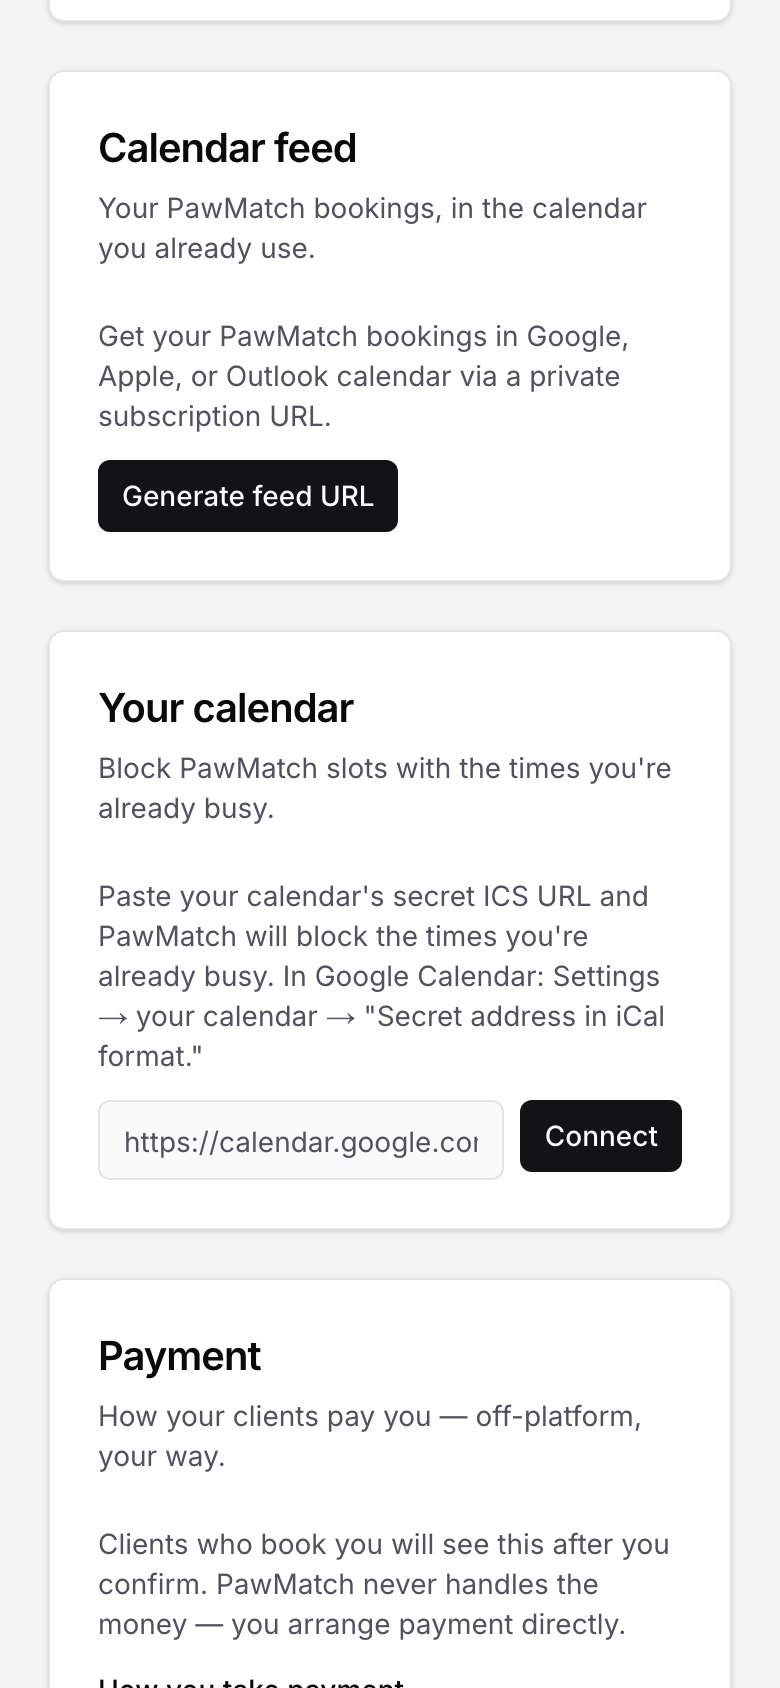
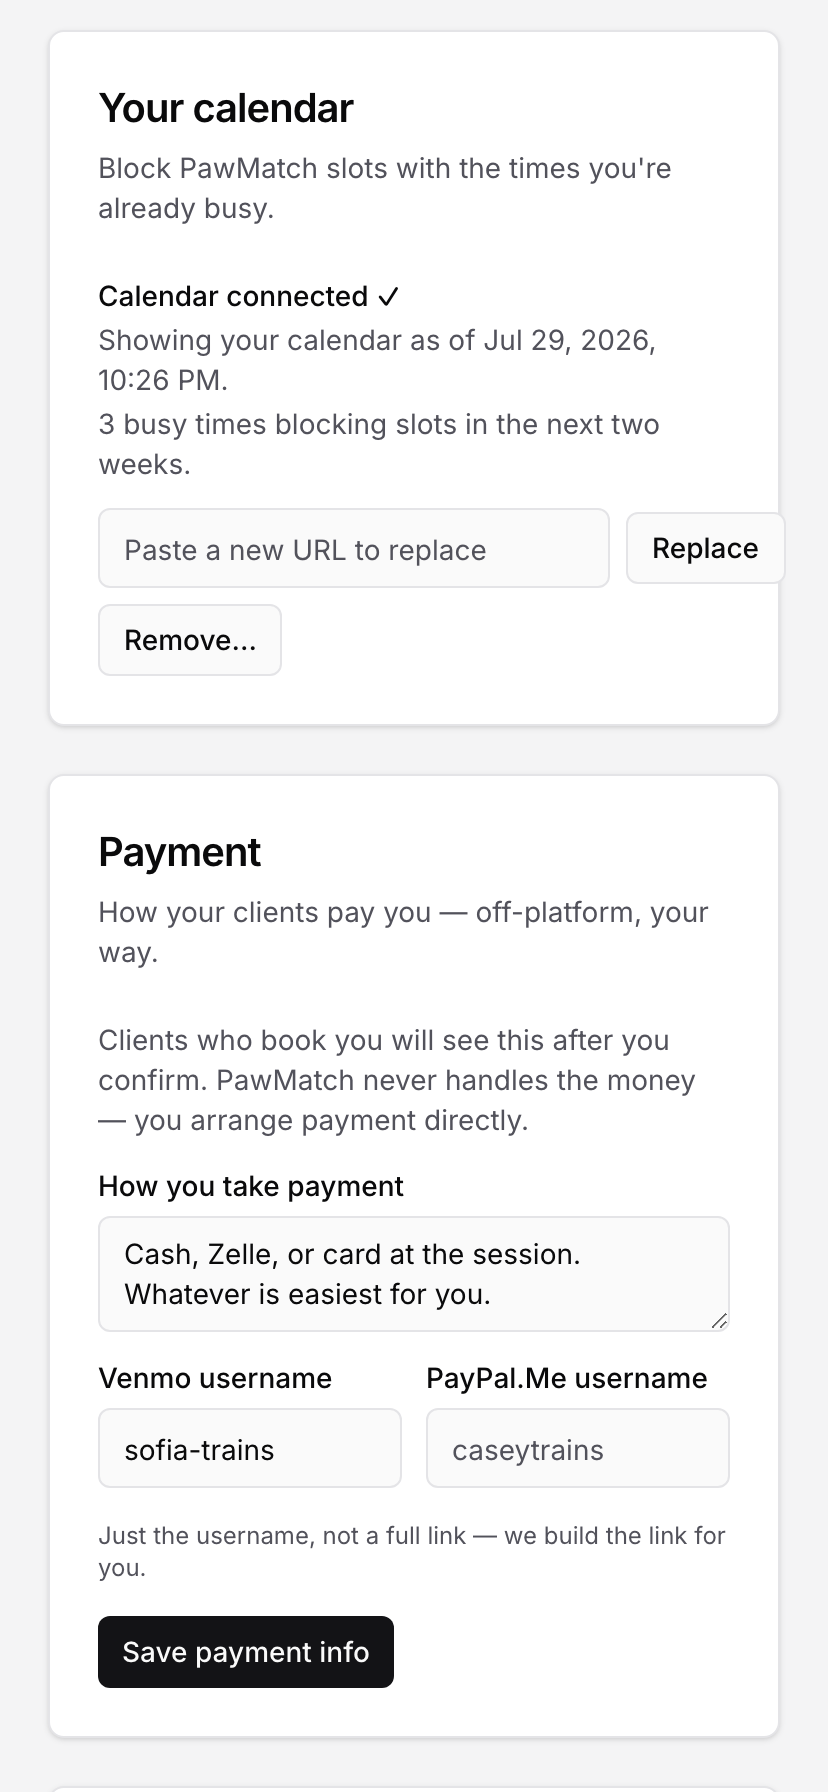
fix(design): phase-2 walkthrough items — hero re-cast + calendar outcome shot
Why: walkthrough verdict A- with three folds. (1) The hero manifest
entry (Beth Macdonald) rendered a walking-away frame with the dog
invisible under the headline; the phase-2 report described a different
energy than what was built (preview-thumbnail read, not full-frame;
reconciled in arc-notes with the lesson). Re-cast to Richard Brutyo's
golden-retriever paw-target moment, mirrored so the dog sits clear of
the text block: dog unmistakably co-subject, warmth + attention at hero
scale, matching the shoot spec as written. (2) The calendar-bridge
device slide showed settings plumbing (ICS paste how-to). Re-shot as
the real connected OUTCOME state: 'Calendar connected, 3 busy times
blocking slots' plus payment set, captured from the live app (state
seeded to the same tables the sync writes; payment set via the real
form). Caption rewritten to Shane's locked framing: no new accounts, no
new logins, clients pay you the way they already do. (3) Sections 1-2
approved as built, untouched.

Standing rule recorded: product imagery at promise level, never
instruction level.

diff --git a/lib/marketing/image-manifest.ts b/lib/marketing/image-manifest.ts
@@ -42,15 +42,15 @@ const UNSPLASH_LICENSE =
 export const MARKETING_IMAGES = {
   heroField: {
     image: heroField,
-    alt: "A dog sitting attentively at its owner's side in an open field, looking up at them",
+    alt: "A golden retriever giving its paw to its owner's raised hand at golden hour",
     section: "Hero (full-viewport opening scene)",
     orientation: "landscape",
     subject:
-      "Owner and pet dog, focused attention, open field. Re-cast 2026-07-29: pet-owner-first (warm competence), sport imagery moved to the community strip.",
+      "Owner and golden retriever, paw-target moment, golden hour. Dog is unmistakably co-subject (re-cast at the phase-2 walkthrough: the prior frame hid the dog under the headline). Mirrored horizontally so the pair sits right of the lower-left text block; Unsplash license permits modification.",
     status: "interim-stock",
     source: {
-      photographer: "Beth Macdonald",
-      url: "https://unsplash.com/photos/RW68ZD7nQyg",
+      photographer: "Richard Brutyo",
+      url: "https://unsplash.com/photos/xvYxGcwFvuE",
       license: UNSPLASH_LICENSE,
     },
   },

diff --git a/lib/marketing/ui-shots.ts b/lib/marketing/ui-shots.ts
@@ -53,10 +53,10 @@ export const UI_SHOTS = {
   },
   calendar: {
     image: uiCalendar,
-    alt: "PawMatch calendar connection card where a trainer links their own calendar",
-    title: "The calendar bridge",
+    alt: "A trainer's PawMatch account showing calendar connected with busy times syncing, and payment set up their own way",
+    title: "Already yours",
     caption:
-      "Trainers connect the calendar they already use. Booked sessions sync out; busy times block new requests.",
+      "No new accounts, no new logins. Clients pay you the way they already do, and PawMatch syncs with the calendar you already run.",
     route: "/account",
   },
 } as const satisfies Record<string, UiShot>;

diff --git a/docs/design/arc-notes.md b/docs/design/arc-notes.md
@@ -60,6 +60,30 @@ standing directive for all copy and image casting:
   its tweens on first scroll intent (see comment there). Animating the
   LCP element at load costs ~2s of mobile LCP.
 
+## Phase-2 walkthrough corrections (2026-07-29)
+
+- REPORT-VS-BUILT RECONCILIATION: the phase-2 report described the hero
+  interim as "lab in a focused sit, eyes up at owner". What actually
+  rendered (manifest entry heroField, Beth Macdonald RW68ZD7nQyg) was a
+  walking-away landscape where the dark dog disappeared into the dark
+  grass under the headline. The description came from reading a 640px
+  preview too generously and was not re-checked against the full-bleed
+  render. Lesson recorded: judge hero casting on the composed full-frame
+  render, not the preview thumbnail.
+- Hero re-cast (Richard Brutyo xvYxGcwFvuE, mirrored): dog unmistakably
+  co-subject, warmth + attention at hero scale. Shoot spec unchanged (it
+  already demanded this; the interim now matches it).
+- Calendar-bridge device slide re-shot: marketing shows OUTCOMES (calendar
+  connected, payment set), never settings plumbing (ICS paste
+  instructions, feed-URL generation). Standing rule for all product
+  imagery: promise level, not instruction level.
+- Locked benefit framing for calendar + payment features (Shane's, use
+  as lead language): NO new accounts, NO new logins. No Stripe account to
+  create, no separate payment app; clients pay you the way they already
+  do, and PawMatch syncs with the business calendar and kennel software
+  you already run. Booked sessions appear there; busy times block new
+  requests. (Claimable: M15/M16 calendar bridge + off-platform payment.)
+
 ## Standing constraints (phase 2+)
 
 - GSAP code-split to the homepage route only; booking funnel untouched.
